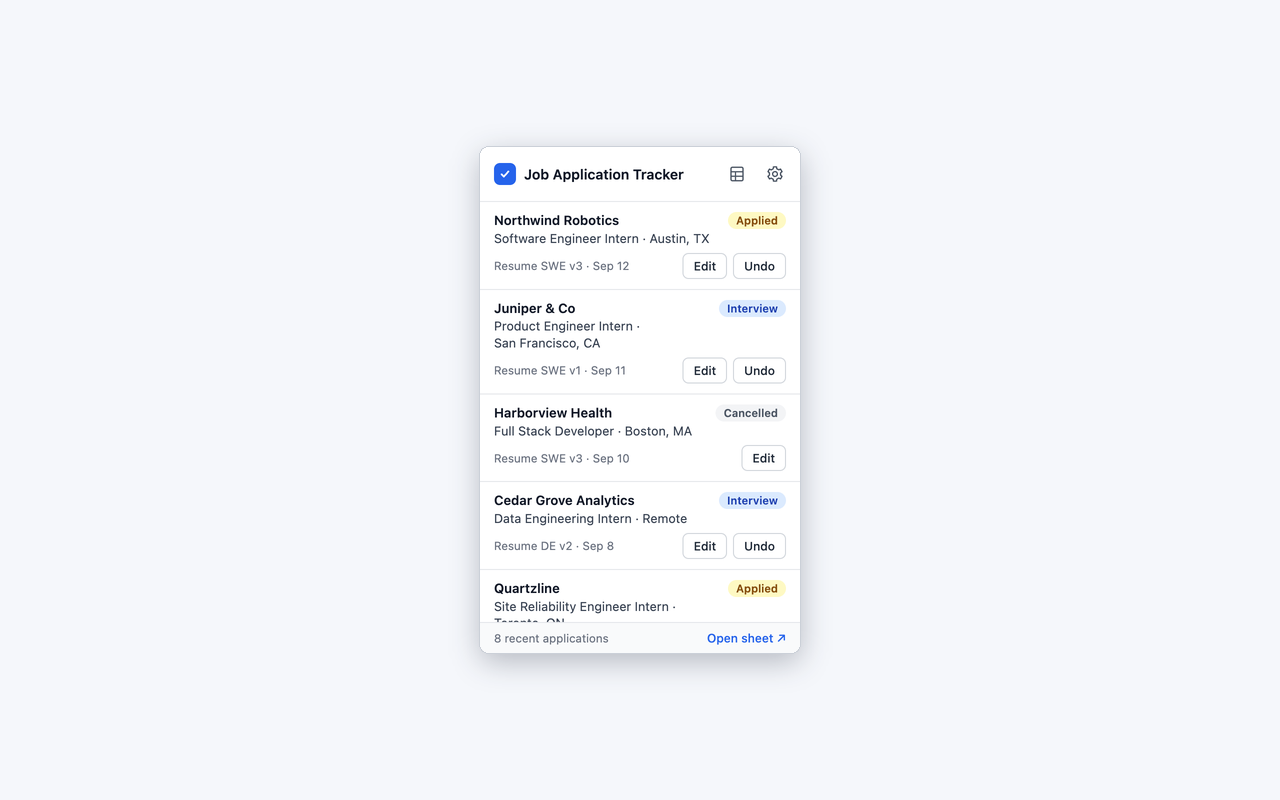
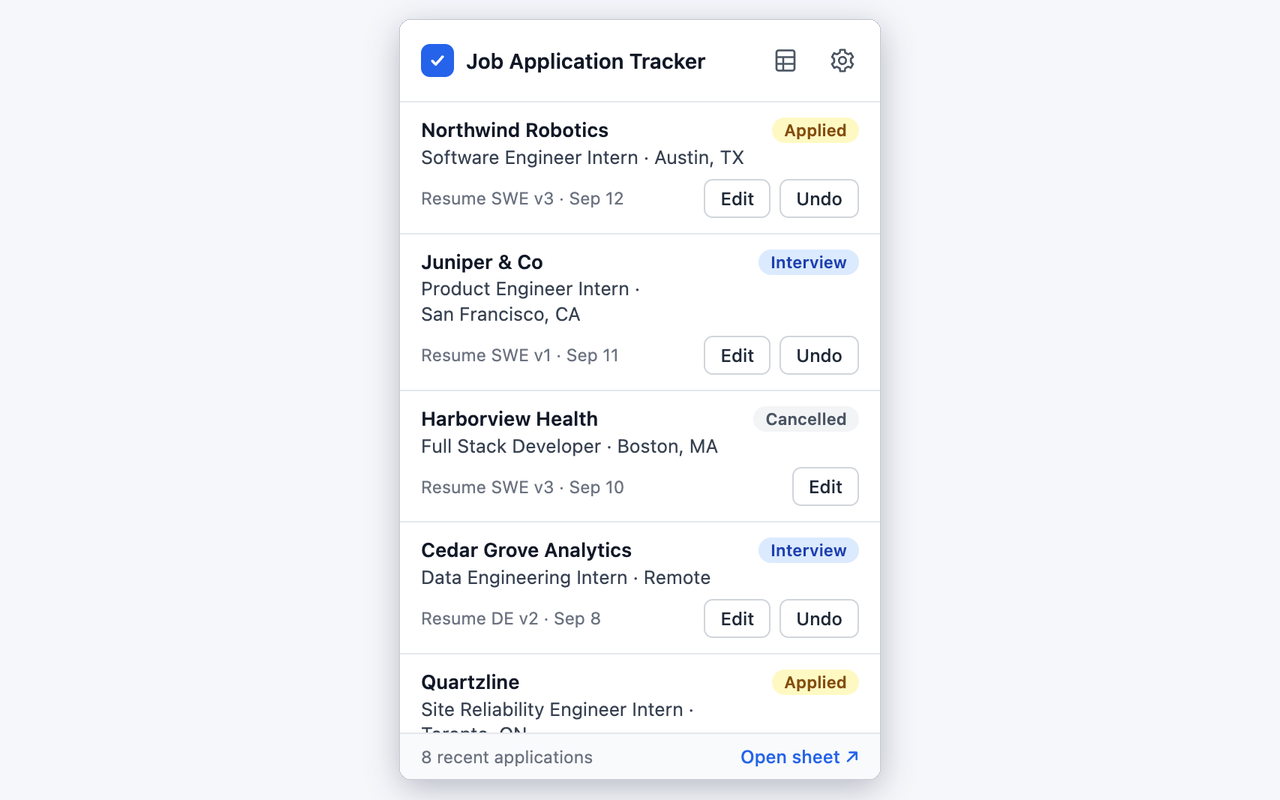
Store screenshots at 1.5x; save the sheet screenshot script
The store shows screenshots at about half size, so the true-size cards
were too small to read: both are now downscaled from the 2x renders to
1.5x their true size (popup 480x759, Settings 660x687), still centred on
#F5F7FB with the border and shadow, 1280x800 with no alpha.

scripts/screenshot-sheet.ts: the service-worker script that builds a
throwaway placeholder sheet through the real createSheet, appendRow and
updateCell (writes nothing to extension storage), with a header on how
to bundle and run it, so the optional sheet screenshot stays possible.
listing.md points at it and gives the new sizes.

Claude-Session: https://claude.ai/code/session_01Lh52276jnZQhPEP6mERzFZ

Changed region(s): [[0.2812, 0.0312, 0.7188, 0.9375], [0.3125, 0.9375, 0.6875, 1.0], [0.5938, 0.0625, 0.625, 0.0938]]

diff --git a/scripts/screenshot-sheet.ts b/scripts/screenshot-sheet.ts
@@ -1,0 +1,67 @@
+// Builds a throwaway, placeholder "Job Applications" sheet for the optional
+// store screenshot of the auto-created sheet (store-assets/listing.md).
+//
+// Bundle it (esbuild comes with Vite), then run it in the extension's
+// service worker:
+//   ./node_modules/.bin/esbuild scripts/screenshot-sheet.ts --bundle \
+//     --format=iife --platform=browser --outfile=/tmp/screenshot-sheet-sw.js
+//   pbcopy < /tmp/screenshot-sheet-sw.js
+// Paste into chrome://extensions > Job Application Tracker > "service
+// worker" console (the extension must already be connected to Google) and
+// keep DevTools open until "DONE". It prints the rows as JSON and the sheet
+// URL. Capture the sheet at 100% zoom, then move it to Drive trash.
+//
+// Real shipped code only: createSheet (the new formatting), appendRow (the
+// Date converted to a real date, OVERWRITE + lock) and updateCell. It calls
+// googleSheetsProvider directly, not getActiveProvider()'s wrapper, so it
+// writes nothing to extension storage (no sheetRef, recent list, queue or
+// sign-in flag). Placeholder data only: fake companies, jobs.example.com.
+// Not part of the extension build (Vite only bundles src/).
+import { googleSheetsProvider } from '../src/providers/googleSheets'
+import { SHEET_TEMPLATE_COLUMNS } from '../src/lib/sheetTemplate'
+declare const copy: ((s: string) => void) | undefined
+
+// Oldest first, so the newest application sits in the last row, as it
+// would after two weeks of real logging. Times are Toronto local time. The
+// store popup screenshot shows the newest four with these statuses.
+const ROWS = [
+  { at: '2026-08-31T09:12:00-04:00', company: 'Maple Street Data', title: 'Data Analyst Intern', location: 'Chicago, IL', resume: 'DE v1', status: 'Rejected' },
+  { at: '2026-09-01T16:05:00-04:00', company: 'Arclight Systems', title: 'Backend Software Engineer', location: 'Seattle, WA', resume: 'SWE v3', status: 'Offer' },
+  { at: '2026-09-03T11:30:00-04:00', company: 'Bluefin Labs', title: 'Machine Learning Engineer Intern', location: 'New York, NY', resume: 'SWE v2', status: 'Applied' },
+  { at: '2026-09-05T14:48:00-04:00', company: 'Quartzline', title: 'Site Reliability Engineer Intern', location: 'Toronto, ON', resume: 'SWE v3', status: 'Applied' },
+  { at: '2026-09-08T10:22:00-04:00', company: 'Cedar Grove Analytics', title: 'Data Engineering Intern', location: 'Remote', resume: 'DE v2', status: 'Interview', note: 'Recruiter call Tue 3pm. Take-home due Friday.' },
+  { at: '2026-09-10T13:07:00-04:00', company: 'Harborview Health', title: 'Full Stack Developer', location: 'Boston, MA', resume: 'SWE v3', status: 'Cancelled' },
+  { at: '2026-09-11T15:41:00-04:00', company: 'Juniper & Co', title: 'Product Engineer Intern', location: 'San Francisco, CA', resume: 'SWE v1', status: 'Interview' },
+  { at: '2026-09-12T09:56:00-04:00', company: 'Northwind Robotics', title: 'Software Engineer Intern', location: 'Austin, TX', resume: 'SWE v3', status: 'Applied' },
+]
+
+;(async () => {
+  const summary: Record<string, unknown> = {}
+  try {
+    const ref = await googleSheetsProvider.createSheet([...SHEET_TEMPLATE_COLUMNS]) // real createSheet
+    const logged = []
+    for (const r of ROWS) {
+      const slug = r.company.toLowerCase().replace(/[^a-z0-9]+/g, '-').replace(/-$/, '')
+      const url = `https://jobs.example.com/${slug}`
+      const date = new Date(r.at).toISOString()
+      // Status and Notes blank on append, like a real log (buildRow).
+      const appended = await googleSheetsProvider.appendRow(ref, { Date: date, Company: r.company, Title: r.title, Location: r.location, URL: url, 'Resume Version': r.resume, Status: '', Notes: '' })
+      logged.push({ ...r, date, url, rowNumber: appended.rowNumber })
+    }
+    for (const r of logged) {
+      await googleSheetsProvider.updateCell(ref, r.rowNumber, 'Status', r.status)
+      if (r.note) await googleSheetsProvider.updateCell(ref, r.rowNumber, 'Notes', r.note)
+    }
+    Object.assign(summary, {
+      url: `https://docs.google.com/spreadsheets/d/${ref.spreadsheetId}/edit`,
+      rows: logged.map(({ company, title, location, resume, status, date, url, rowNumber }) => ({ rowNumber, date, company, title, location, url, resume, status })),
+    })
+  } catch (e) {
+    summary.error = String(e)
+  }
+  const out = JSON.stringify(summary, null, 2)
+  console.log(out)
+  try { if (typeof copy === 'function') copy(out) } catch { /* console-only helper */ }
+  if (summary.url) console.log(`SHEET URL: ${summary.url}`)
+  console.log('DONE. Paste the JSON above back (it includes the sheet URL).')
+})()

diff --git a/store-assets/listing.md b/store-assets/listing.md
@@ -49,17 +49,20 @@ options page) from the `npm run package` build of commit `11f95ef`,
 rendered in headless Chrome at 2x with a stand-in for the extension's
 storage and background messages that supplies the placeholder data. The
 code and styles are the shipped ones; only the data source is
-substituted. Each render was cropped to the page, scaled to its true
-size (320×506 and 440×458) and centred on a plain `#F5F7FB` 1280×800
-background with a 1px border and a soft shadow. No browser chrome or
+substituted. Each render was cropped to the page, scaled down from the
+2x render to 1.5× its true size (480×759 and 660×687; the store shows
+screenshots at about half size, so true-size text would be too small to
+read) and centred on a plain `#F5F7FB` 1280×800 background with a 1px
+border and a soft shadow. No browser chrome or
 text was added, and nothing was retouched. The popup's chips show the
 placeholder applications' statuses as its live statuses would.
 
-Optional, to add later: a screenshot of the auto-created sheet. The
-service-worker script `screenshot-sheet-sw.js` builds one on a throwaway
-sheet through the real `createSheet`, `appendRow` and `updateCell` (8
-placeholder rows over two weeks, all five statuses). It isn't in the
-repo; it would need to be saved under `scripts/` before use.
+Optional, to add later: a screenshot of the auto-created sheet.
+`scripts/screenshot-sheet.ts` builds one on a throwaway sheet through the
+real `createSheet`, `appendRow` and `updateCell` (8 placeholder rows over
+two weeks, all five statuses, the same rows the popup screenshot shows);
+its header says how to bundle it and run it in the extension's service
+worker.
 
 ## Privacy practices tab
 
